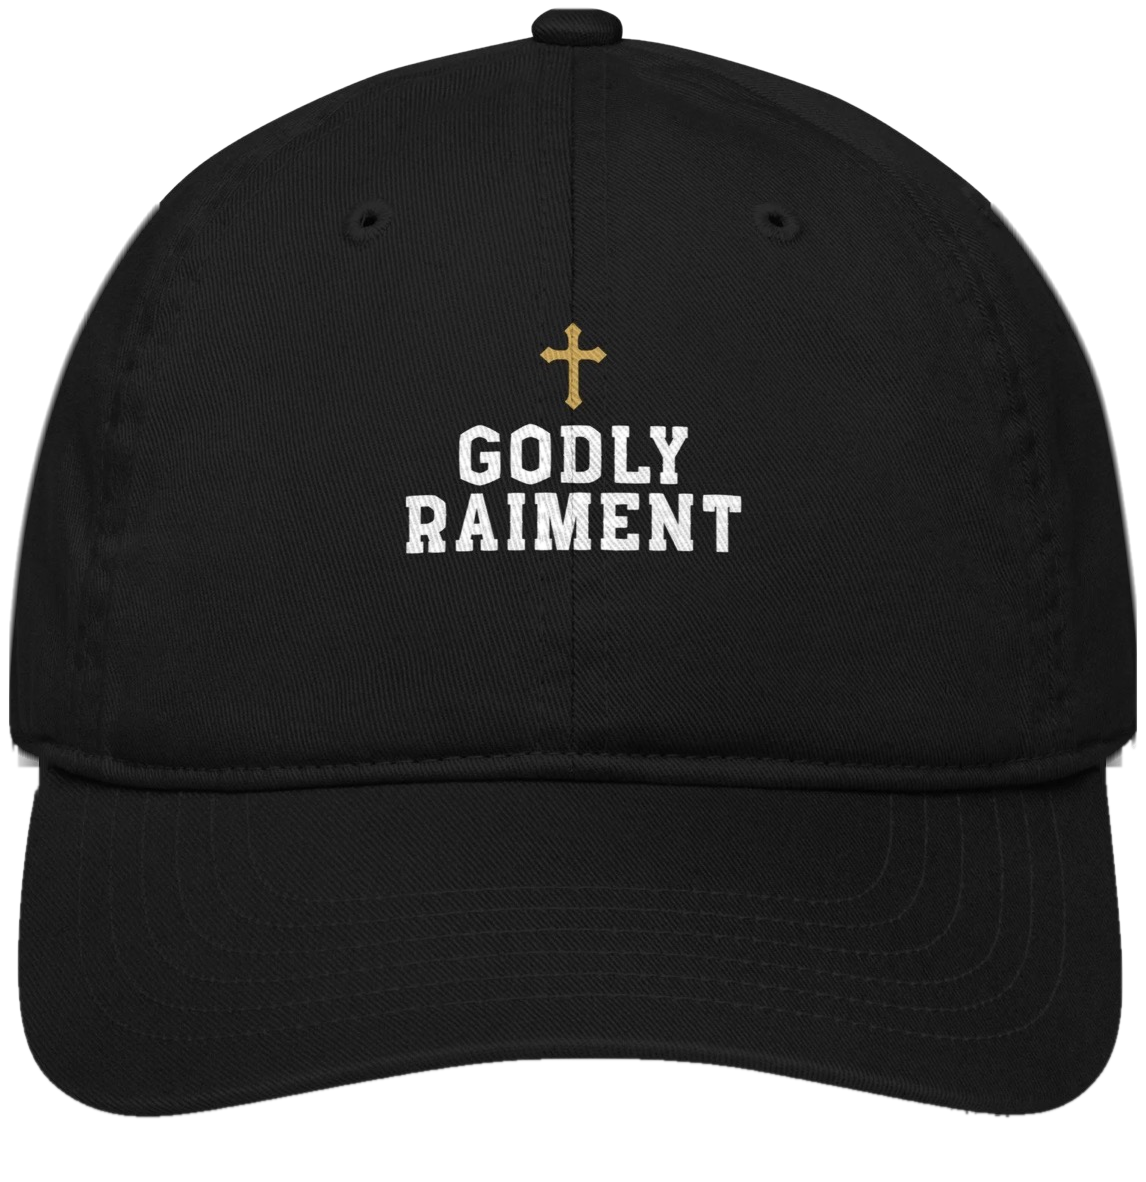
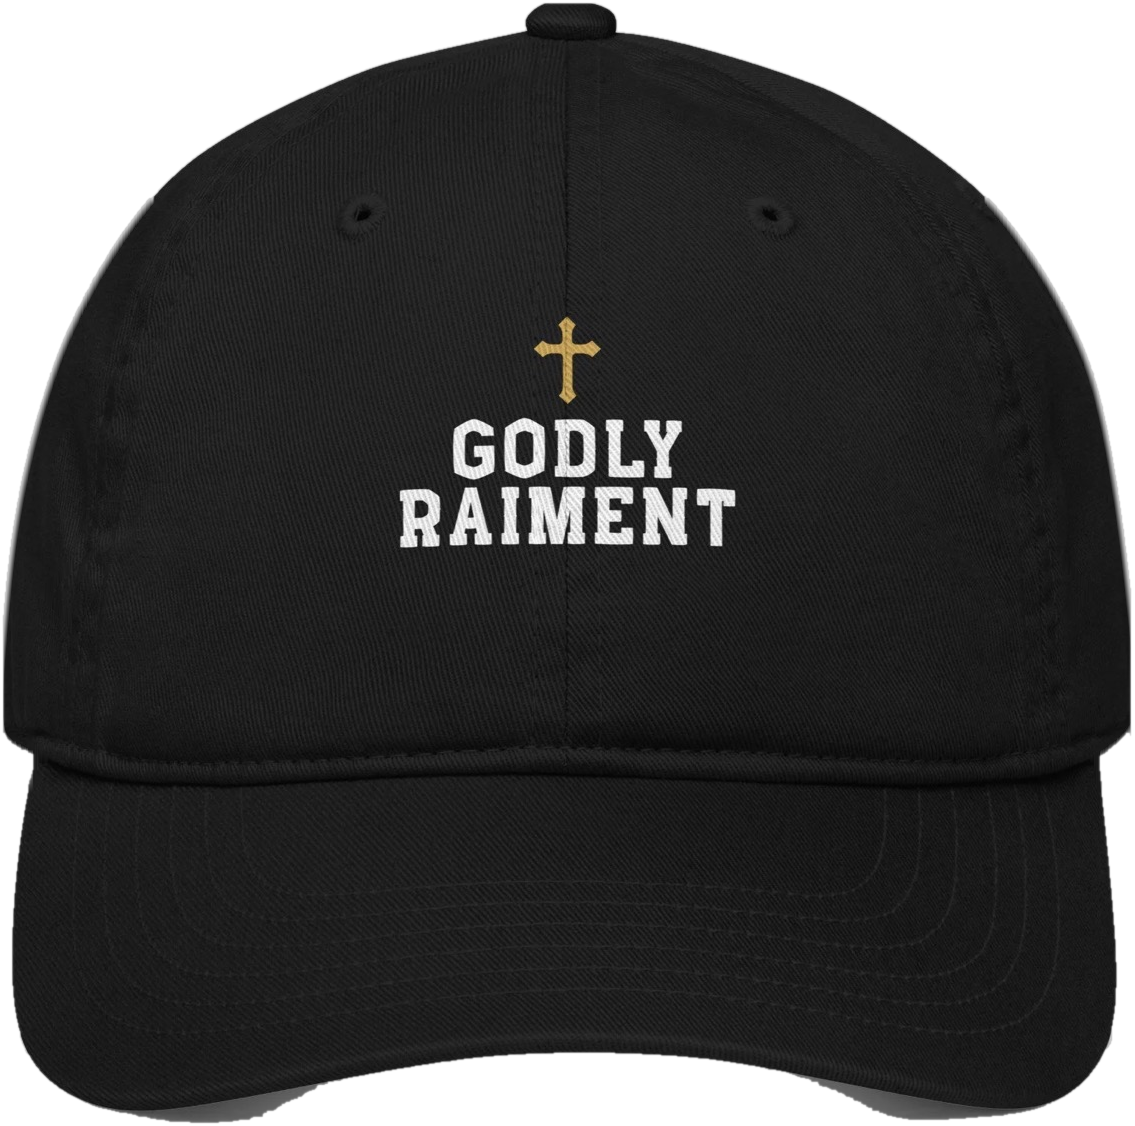
Re-cut the cap product shots and keep the caption scrim off them
The store cut-outs were built from the older, softer screenshots and the
keying was eating the crown embroidery: a plain "near-white and neutral"
background test matches the white GODLY RAIMENT lettering as readily as it
matches the page, so the letters came out speckled with holes.

Cut from the sharper shots and rework the pipeline:

- background is only background where it reaches the frame edge, so anything
  enclosed by the cap stays opaque;
- keep just the blob the cap sits in, dropping the page furniture that
  survived at the right edge of the stone shot;
- replace the two lighter-than-the-crown shadow rules with one test for the
  mockup's dead-neutral ground shadow, low in the frame only, then
  median-smooth the brim's bottom boundary so the weave stops leaving teeth;
- drop the second erosion pass, which was thinning the strokes.

All three colourways now land on one shared canvas so a cap does not change
size between cuts.

In the reel kit, a caption over a cut-out no longer darkens it: the scrim
becomes a top band that fades out above the product, and the cut-out sits on
a soft pool of light rather than flat black, a little larger in frame.

Claude-Session: https://claude.ai/code/session_01VnEq2ChKPq5zBvguLbqSdZ

diff --git a/src/reel/kit.tsx b/src/reel/kit.tsx
@@ -62,7 +62,15 @@ export const Float: React.FC<{ src: string; drift?: number }> = ({ src, drift = 
   const t = frame / Math.max(durationInFrames, 1);
   return (
     <AbsoluteFill style={{ background: "#0b0a09" }}>
-      <AbsoluteFill className="items-center" style={{ justifyContent: "flex-end", paddingBottom: 240 }}>
+      {/* a soft pool of light so the cut-out is not floating on flat black */}
+      <AbsoluteFill
+        style={{
+          background:
+            "radial-gradient(58% 34% at 50% 64%, rgba(232,178,60,0.20) 0%," +
+            " rgba(232,178,60,0.07) 45%, rgba(11,10,9,0) 100%)",
+        }}
+      />
+      <AbsoluteFill className="items-center" style={{ justifyContent: "flex-end", paddingBottom: 236 }}>
         <div
           style={{
             transform: `translateY(${interpolate(t, [0, 1], [drift, -drift])}px) scale(${interpolate(
@@ -71,7 +79,7 @@ export const Float: React.FC<{ src: string; drift?: number }> = ({ src, drift = 
               [1.0, 1.06],
             )})`,
           }}
-          className="w-[820px]"
+          className="w-[884px]"
         >
           <Img src={staticFile(`images/${src}`)} className="w-full object-contain" />
         </div>
@@ -122,21 +130,30 @@ const Line: React.FC<{
 };
 
 /** One beat: a caption block held over whatever is behind it. */
+/**
+ * The scrim behind a caption. "band" sits across the middle third, for
+ * footage; "top" stops above the product on a cut-out beat, so the cap keeps
+ * its own contrast and the embroidery stays legible.
+ */
+const SCRIM = {
+  band:
+    "linear-gradient(to bottom, rgba(8,7,6,0) 22%, rgba(8,7,6,0.62) 34%," +
+    " rgba(8,7,6,0.62) 62%, rgba(8,7,6,0) 74%)",
+  top:
+    "linear-gradient(to bottom, rgba(8,7,6,0) 20%, rgba(8,7,6,0.68) 29%," +
+    " rgba(8,7,6,0.68) 42%, rgba(8,7,6,0) 48%)",
+};
+
 export const Beat: React.FC<{
   lines: string[];
   hot?: string;
   size?: number;
   accent?: string;
-}> = ({ lines, hot, size = 96, accent = "#e8b23c" }) => (
+  scrim?: keyof typeof SCRIM;
+}> = ({ lines, hot, size = 96, accent = "#e8b23c", scrim = "band" }) => (
   <AbsoluteFill>
     {/* a band behind the words — bright footage eats an outline on its own */}
-    <AbsoluteFill
-      style={{
-        background:
-          "linear-gradient(to bottom, rgba(8,7,6,0) 22%, rgba(8,7,6,0.62) 34%," +
-          " rgba(8,7,6,0.62) 62%, rgba(8,7,6,0) 74%)",
-      }}
-    />
+    <AbsoluteFill style={{ background: SCRIM[scrim] }} />
     <AbsoluteFill
       className="items-center"
       style={{

diff --git a/src/reel/MonthReel.tsx b/src/reel/MonthReel.tsx
@@ -22,6 +22,9 @@ const GR_TRACK: Record<string, string> = {
 
 export const MonthReel: React.FC<{ spec: Spec }> = ({ spec }) => {
   const accent = spec.accent ?? "#e8b23c";
+  /** A cut-out beat carries the product, so the caption scrim keeps off it. */
+  const scrim = (i: number): "top" | "band" =>
+    spec.back[i].kind === "float" ? "top" : "band";
   return (
     <Reel
       track={spec.track ?? GR_TRACK[spec.topic]}
@@ -30,7 +33,9 @@ export const MonthReel: React.FC<{ spec: Spec }> = ({ spec }) => {
         key: "hook",
         duration: BEATS[0],
         back: back(spec.back[0]),
-        node: <Beat lines={spec.hook} hot={spec.hookHot} size={96} accent={accent} />,
+        node: (
+          <Beat lines={spec.hook} hot={spec.hookHot} size={96} accent={accent} scrim={scrim(0)} />
+        ),
       },
       {
         key: "proof",
@@ -42,13 +47,29 @@ export const MonthReel: React.FC<{ spec: Spec }> = ({ spec }) => {
         key: "benefit-1",
         duration: BEATS[2],
         back: back(spec.back[2]),
-        node: <Beat lines={spec.benefits[0]} hot={spec.benefitHot[0]} size={94} accent={accent} />,
+        node: (
+          <Beat
+            lines={spec.benefits[0]}
+            hot={spec.benefitHot[0]}
+            size={94}
+            accent={accent}
+            scrim={scrim(2)}
+          />
+        ),
       },
       {
         key: "benefit-2",
         duration: BEATS[3],
         back: back(spec.back[3]),
-        node: <Beat lines={spec.benefits[1]} hot={spec.benefitHot[1]} size={94} accent={accent} />,
+        node: (
+          <Beat
+            lines={spec.benefits[1]}
+            hot={spec.benefitHot[1]}
+            size={94}
+            accent={accent}
+            scrim={scrim(3)}
+          />
+        ),
       },
       {
         key: "cta",

diff --git a/scripts/cut_store_hats.py b/scripts/cut_store_hats.py
@@ -1,13 +1,46 @@
 """Cut the Godly Raiment product shots out of the store screenshots.
 
-Keys the white page away, repairs the carousel arrows drawn over the cap, and
-drops the header bar and the slide counter.
+Keys the white page away, repairs the carousel arrows drawn over the cap,
+drops the header bar and the slide counter, clears the mockup's ground
+shadow, and lands all three colourways on one shared canvas so they sit at
+the same size and position in a reel.
 """
 from PIL import Image, ImageDraw, ImageFilter
 import numpy as np
 
 BASE = '/root/.claude/uploads/fa6a7e27-2c32-5e4e-84fa-9d142fd7cfcb/'
-SHOTS = {'black': '2ce2dda5', 'charcoal': 'e6140471', 'stone': '4359afe6'}
+SHOTS = {'black': 'f70e5199', 'charcoal': '01c678ac', 'stone': 'e20e330f'}
+
+
+def border_connected(bg):
+    """Keep only background that reaches the frame edge.
+
+    The page is white and neutral, but so is the embroidery on the crown, and
+    a plain colour test punches holes through the lettering. Flooding in from
+    the border keeps the page and leaves anything enclosed by the cap opaque.
+    """
+    h, w = bg.shape
+    flat = np.where(bg, 255, 0).astype(np.uint8)
+    m = Image.fromarray(np.dstack([flat] * 3), 'RGB')
+    seeds = ([(x, 0) for x in range(w)] + [(x, h - 1) for x in range(w)]
+             + [(0, y) for y in range(h)] + [(w - 1, y) for y in range(h)])
+    for xy in seeds:
+        if m.getpixel(xy) == (255, 255, 255):
+            ImageDraw.floodfill(m, xy, (255, 0, 255))
+    r = np.array(m)
+    return (r[..., 0] == 255) & (r[..., 1] == 0) & (r[..., 2] == 255)
+
+
+def main_component(mask, seed):
+    """Keep only the blob the cap sits in, dropping stray page furniture."""
+    h, w = mask.shape
+    flat = np.where(mask, 255, 0).astype(np.uint8)
+    m = Image.fromarray(np.dstack([flat] * 3), 'RGB')
+    if m.getpixel(seed) != (255, 255, 255):
+        return mask
+    ImageDraw.floodfill(m, seed, (0, 255, 0))
+    r = np.array(m)
+    return (r[..., 0] == 0) & (r[..., 1] == 255) & (r[..., 2] == 0)
 
 
 def cap_bbox(a):
@@ -105,49 +138,83 @@ def cut(name, stem):
     bg = (fa[..., 0] == 255) & (fa[..., 1] == 0) & (fa[..., 2] == 255)
     neutral = (repaired.min(2) > 226) & ((repaired.max(2) - repaired.min(2)) < 14)
     bg |= neutral
+    bg = border_connected(bg)
 
     alpha = np.where(bg, 0, 255).astype(np.uint8)
     # the slide counter sits above the cap in every shot
     alpha[:int(h * 0.16)] = 0
 
-    # the mockup's ground reflection under the brim: neutral, and lighter than
-    # this cap's own crown. Cleared low in the frame only, so the white
-    # embroidery higher up survives on the dark colourways.
-    crown = repaired[int(h * 0.34):int(h * 0.46), int(w * 0.36):int(w * 0.64)]
-    crown_lum = float(crown.reshape(-1, 3).mean(1).mean())
-    low = slice(int(h * 0.70), h)
-    band = repaired[low].astype(int)
+    # The mockup's ground shadow under the brim. Fabric always carries a
+    # little colour (stone ~25, charcoal ~5) or, on the black cap, sits far
+    # below the shadow's luminance ramp; the shadow itself is a dead-neutral
+    # grey. Tested only low in the frame, so the white crown embroidery is
+    # never a candidate.
+    low0 = int(h * 0.68)
+    band = repaired[low0:].astype(int)
     lum = band.mean(2)
     sat = band.max(2) - band.min(2)
-    glare = (lum > crown_lum + 28) & (sat < 15)
-    a_low = alpha[low]
-    a_low[glare] = 0
-    alpha[low] = a_low
-    print(f'    crown lum {crown_lum:5.1f}  glare px {int(glare.sum())}')
+    shadow = (sat <= 2) & (lum > 100)
+    a_low = alpha[low0:]
+    a_low[shadow] = 0
+    alpha[low0:] = a_low
+    # the pale rim where the brim meets the crown reads as neutral too, so
+    # restore anything the shadow test punched out inside the silhouette.
+    alpha = np.where(border_connected(alpha == 0), 0, 255).astype(np.uint8)
 
-    # walk up each column from the bottom of the silhouette, clearing the
-    # light neutral reflection until real fabric is reached
-    rep = repaired.astype(int)
-    lum_all = rep.mean(2)
-    sat_all = rep.max(2) - rep.min(2)
-    reflect = (lum_all > crown_lum + 20) & (sat_all < 26)
+    # the brim's underside is a smooth arc, so median-smooth the bottom
+    # boundary across columns: that trims the teeth the per-pixel test leaves
+    # in the weave and fills the notches it punches.
+    bottom = np.full(w, -1)
     for c in range(w):
         rows = np.nonzero(alpha[:, c] > 0)[0]
-        if not len(rows):
-            continue
-        r = rows[-1]
-        while r >= 0 and alpha[r, c] > 0 and reflect[r, c]:
-            alpha[r, c] = 0
-            r -= 1
+        if len(rows):
+            bottom[c] = rows[-1]
+    cols = np.nonzero(bottom >= 0)[0]
+    R = 26
+    sm = bottom.copy()
+    for c in cols:
+        win = bottom[max(0, c - R):c + R + 1]
+        win = win[win >= 0]
+        if len(win):
+            sm[c] = int(np.median(win))
+    for c in cols:
+        b, t = bottom[c], sm[c]
+        if t > b:
+            # only close a short notch, and only over pixels that are not the
+            # page itself: at the brim's outer tips the median sits far below
+            # the silhouette and would paint a white strip down the side.
+            if t - b > 14:
+                continue
+            seg = repaired[b + 1:t + 1, c].astype(int)
+            keep = ~((seg.min(1) > 214) & ((seg.max(1) - seg.min(1)) < 16))
+            alpha[np.arange(b + 1, t + 1)[keep], c] = 255
+        elif t < b:
+            alpha[t + 1:b + 1, c] = 0
+
+    alpha = np.where(main_component(alpha > 0, (w // 2, int(h * 0.40))),
+                     255, 0).astype(np.uint8)
 
     im = Image.fromarray(np.dstack([repaired, alpha]), 'RGBA')
-    # close the single-pixel notches the erosion leaves along the brim
+    # close single-pixel notches, then pull the edge in a touch: the page is
+    # lighter than these caps, so the anti-aliased rim leaves a pale halo
     al = im.split()[3].filter(ImageFilter.MaxFilter(3)).filter(ImageFilter.MinFilter(3))
-    im.putalpha(al.filter(ImageFilter.GaussianBlur(1.0)))
-    im.save(f'cut-{name}.png')
+    im.putalpha(al.filter(ImageFilter.GaussianBlur(0.9)))
+
     print(f'{name:9s} crop {src.size}  arrow px {int(am.sum()):6d}  transparent {100*bg.mean():4.1f}%')
     return im
 
 
-for n, s in SHOTS.items():
-    cut(n, s)
+OUT = '/home/user/Video-Editing/public/images/store/'
+
+caps = {n: cut(n, s) for n, s in SHOTS.items()}
+caps = {n: im.crop(im.split()[3].getbbox()) for n, im in caps.items()}
+
+# one canvas for every colourway: the shots differ slightly in resolution, and
+# a cap that jumps size between cuts reads as a mistake.
+W = max(c.width for c in caps.values())
+H = max(c.height for c in caps.values())
+for n, c in caps.items():
+    out = Image.new('RGBA', (W, H), (0, 0, 0, 0))
+    out.paste(c, ((W - c.width) // 2, 0), c)
+    out.save(OUT + n + '.png')
+    print(f'{n:9s} -> {OUT}{n}.png  {out.size}')
